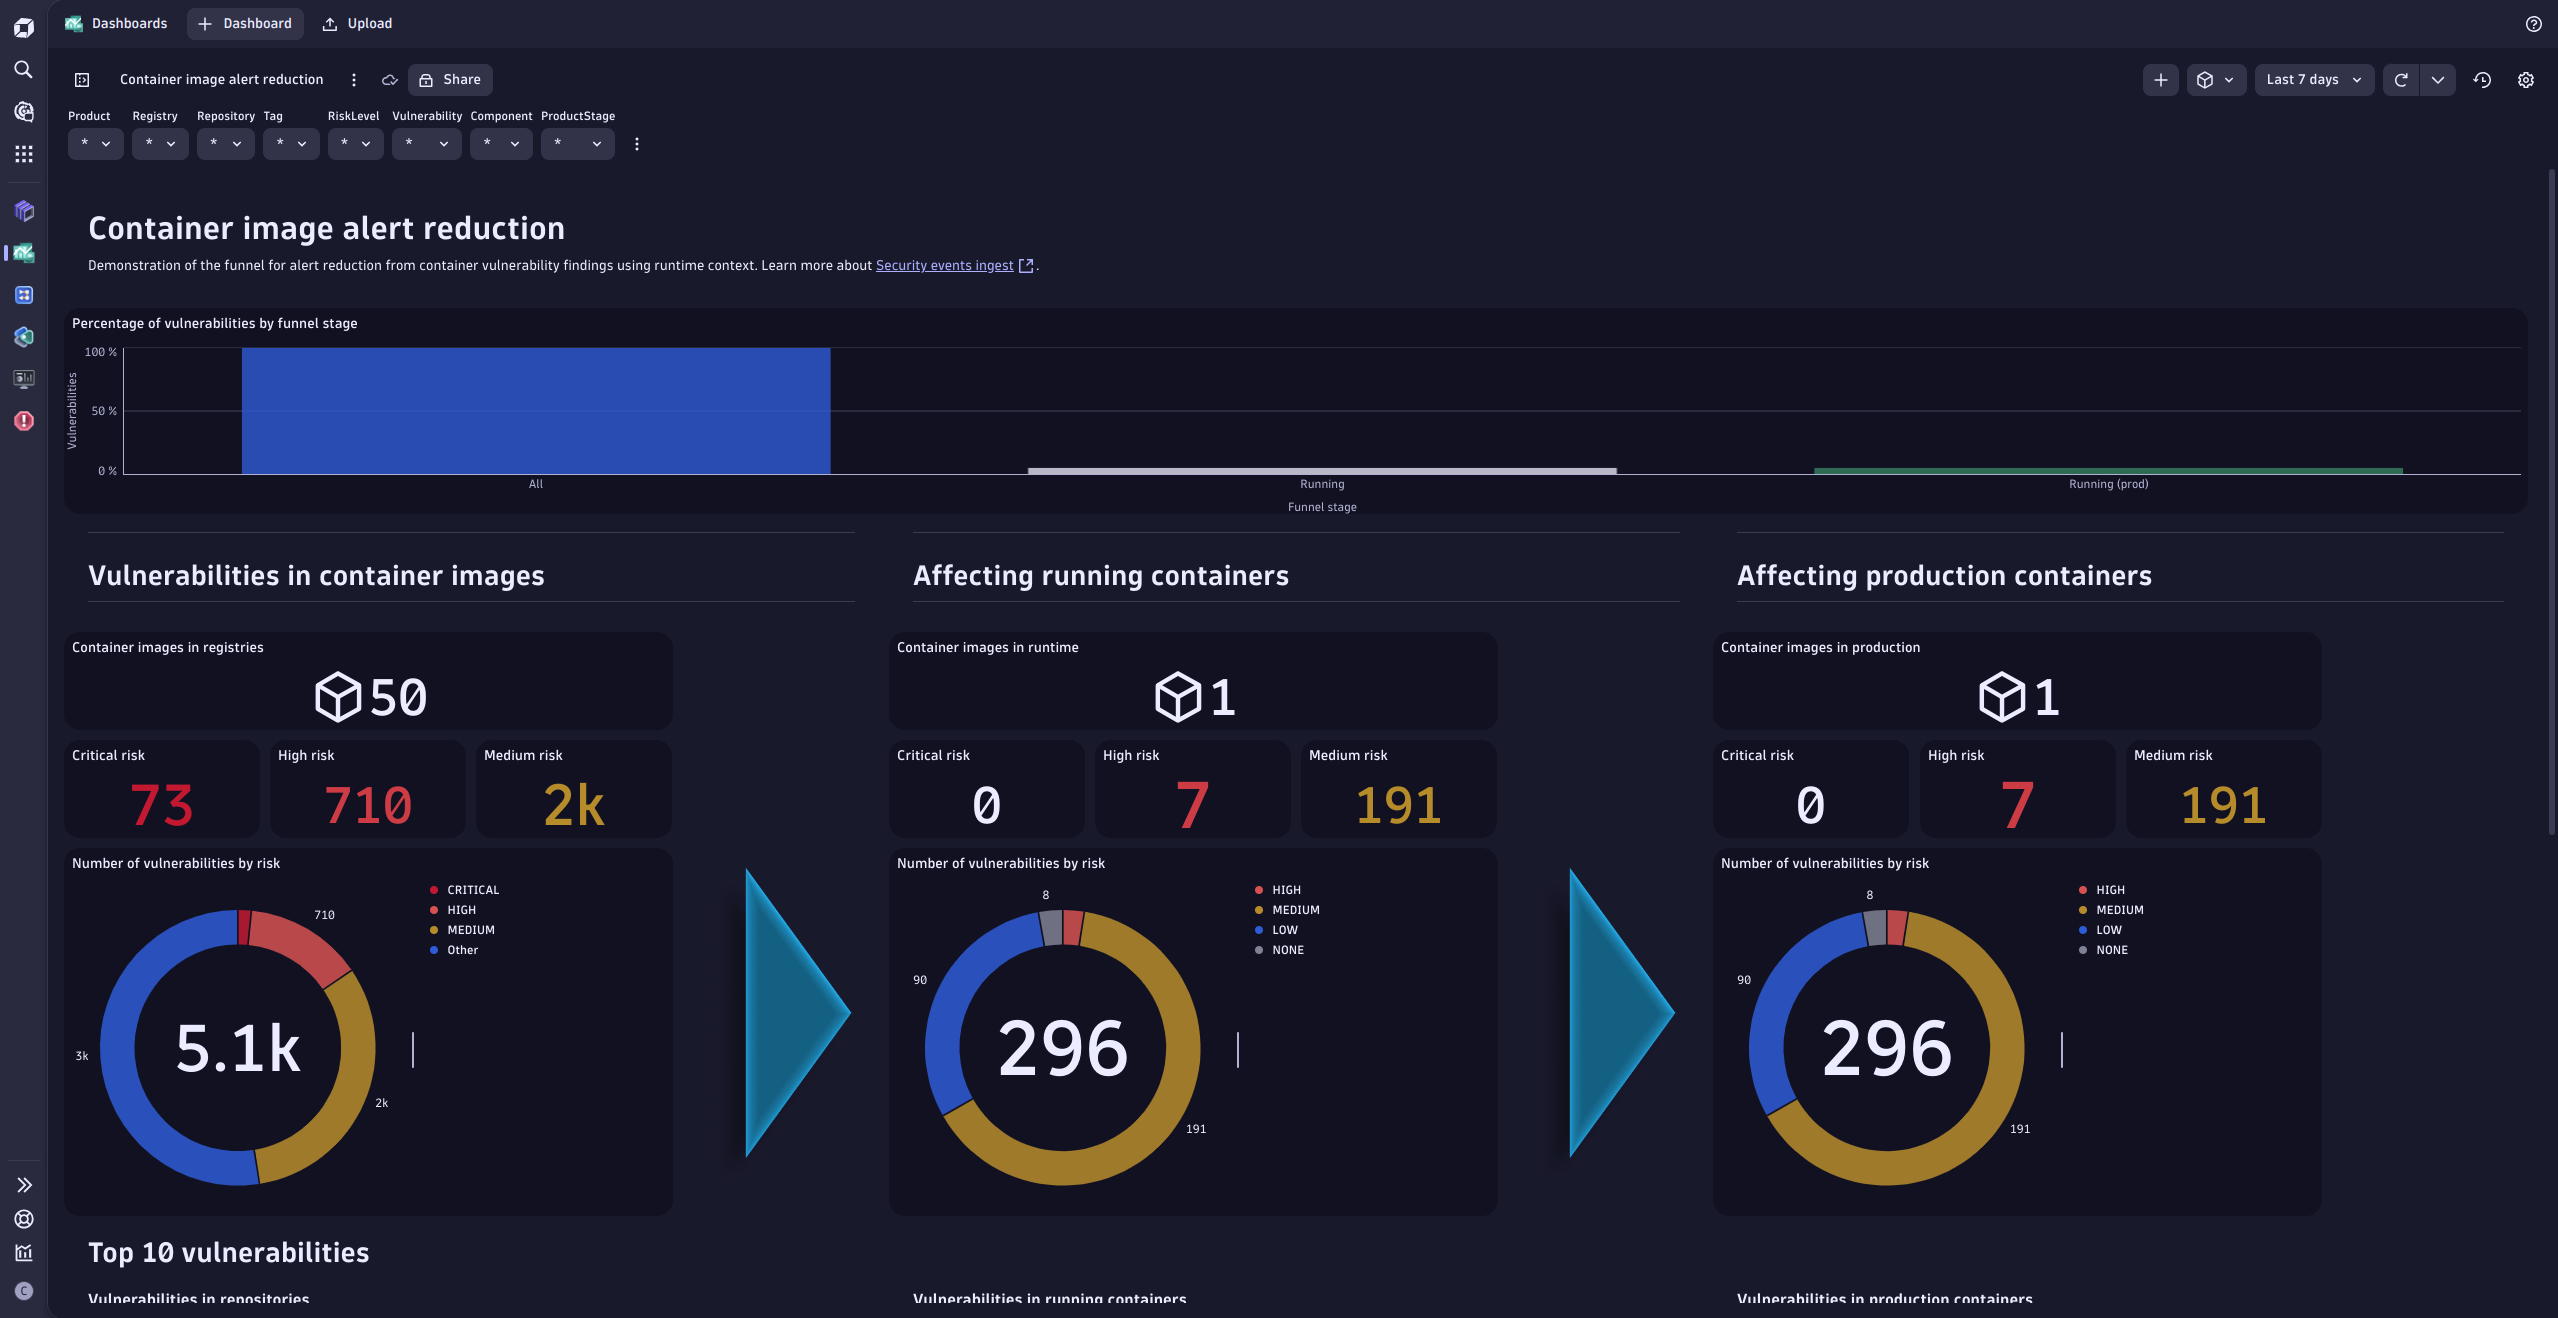
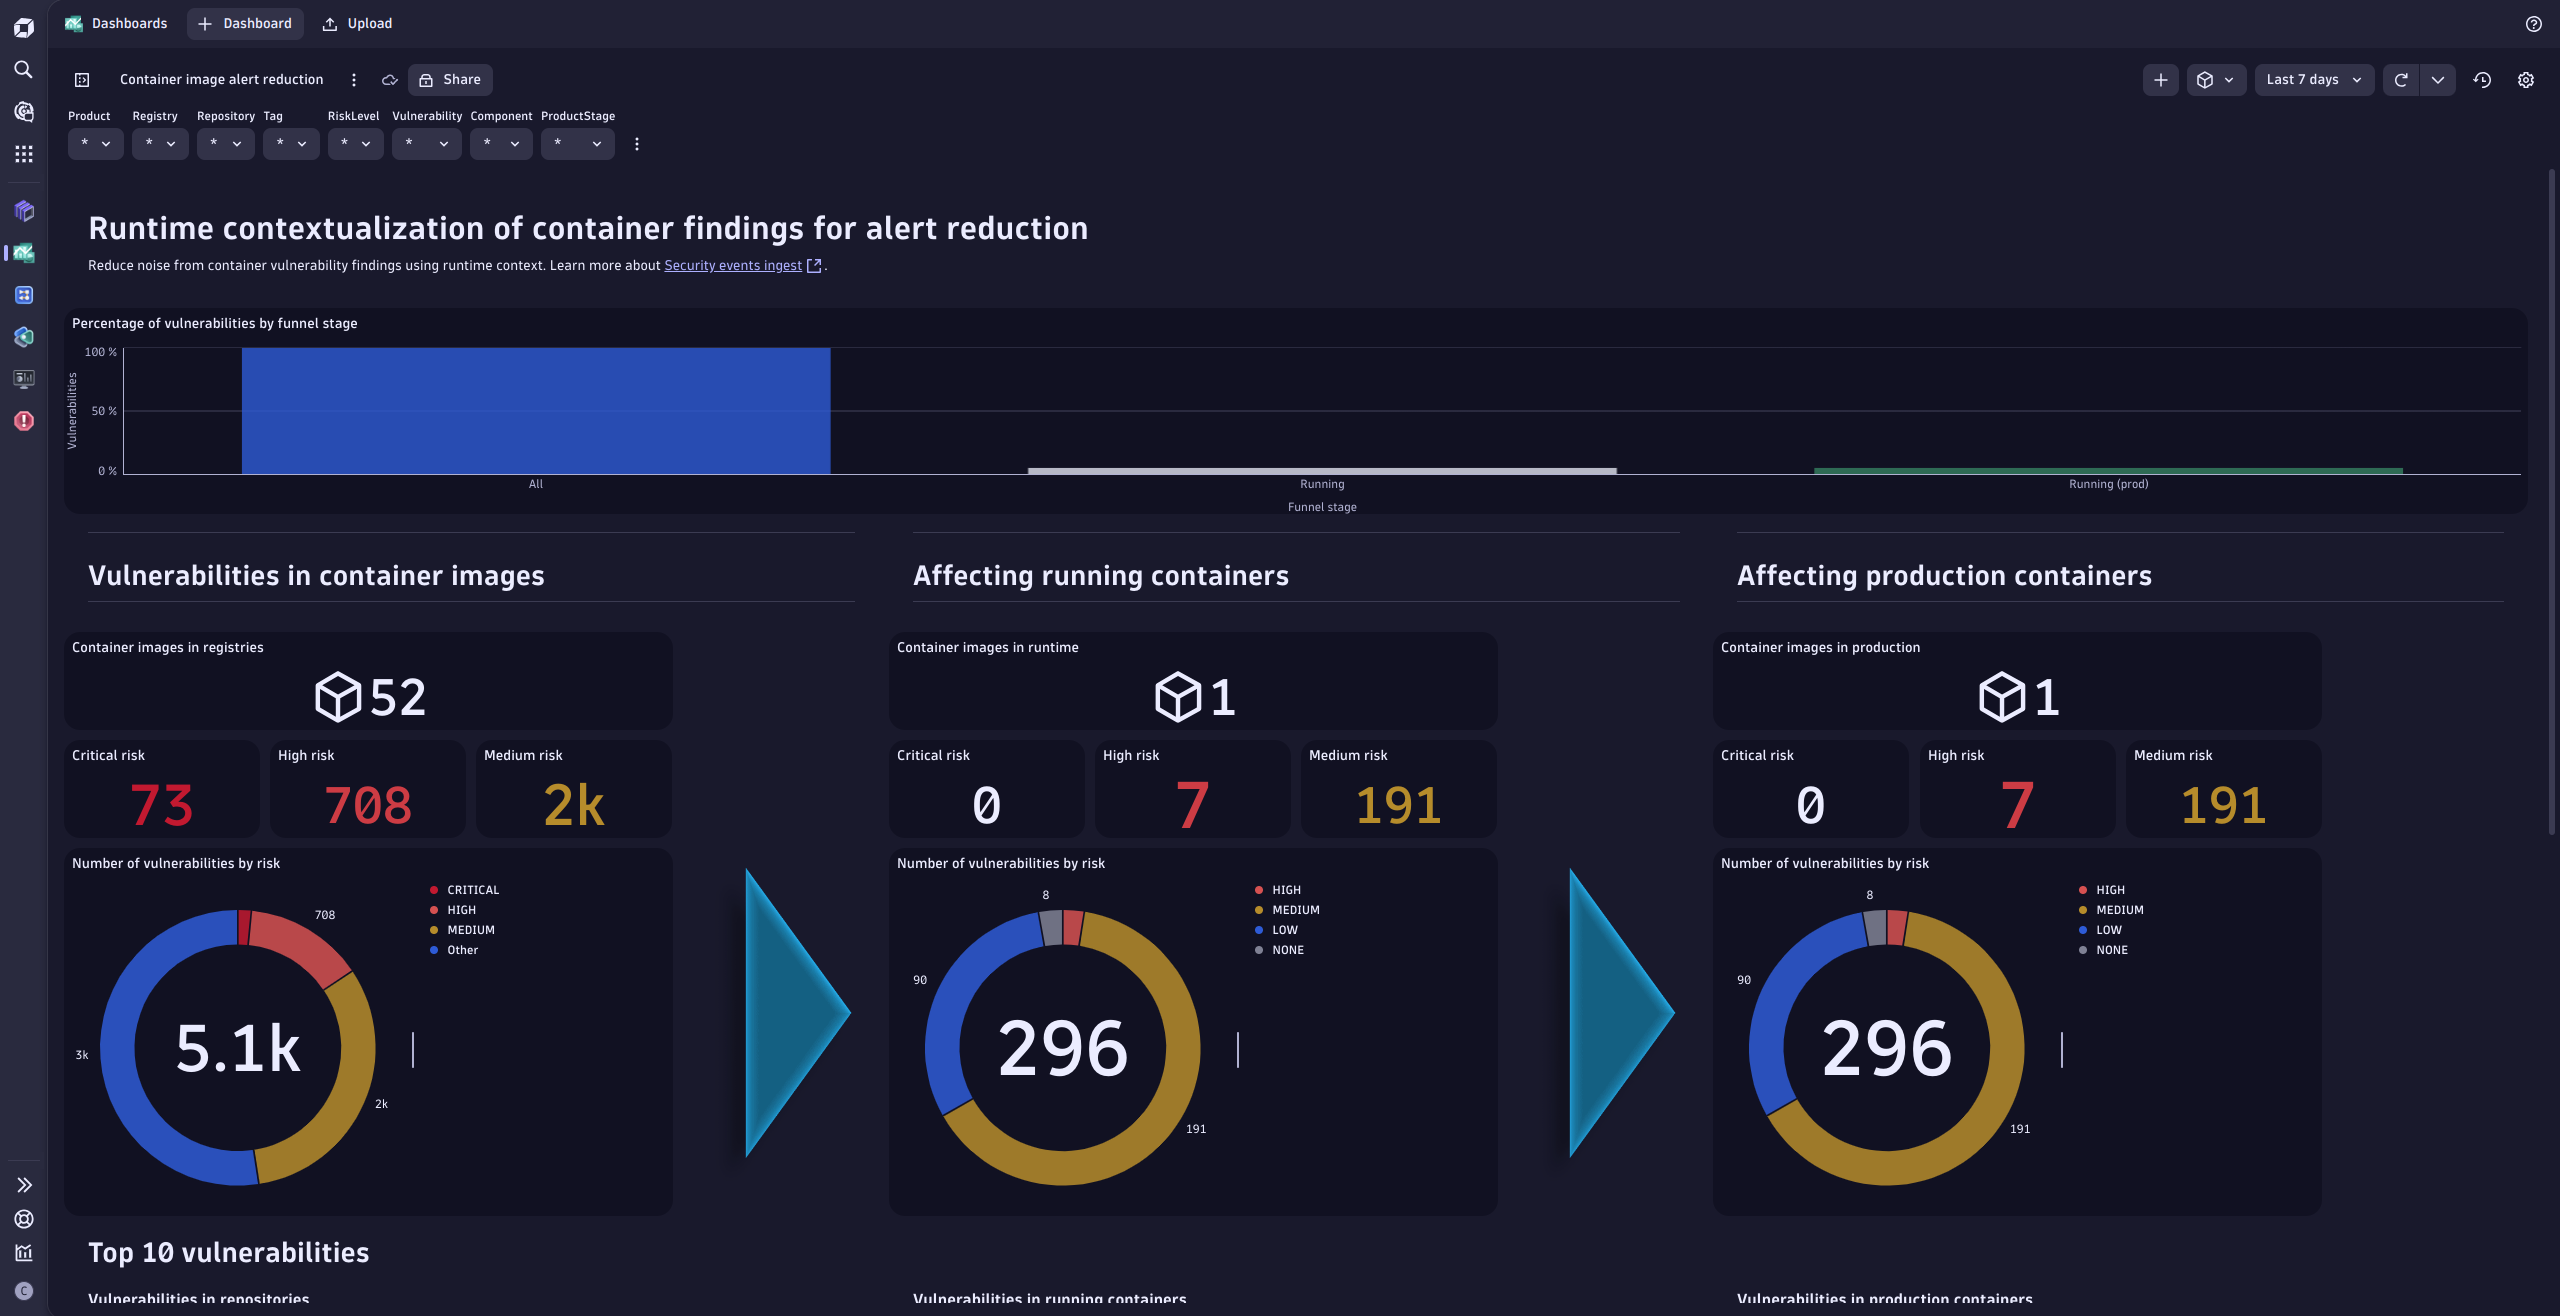
Update security dashboards to be compatible with new semantic dictionary schema and add Container image alert reduction dashboard

diff --git a/dashboards/security/README.md b/dashboards/security/README.md
@@ -28,7 +28,7 @@ For more information about how security reporting, refer to [Security data analy
 
 ![Container scan events coverage](/images/dashboard_security_container_scan_events_coverage.png)
 
-**Container image alert reduction** - This report template provides an overview of vulnerable container images and the status of these container images in running containers and for containers running in a production environment.
+**Container image alert reduction** - This report template provides an overview for runtime contextualization of container findings for alert reduction.
 [Download](/dashboards/security/Container%20image%20alert%20reduction.json) this dashboard and import it in your Dynatrace environment
 
 ![Container image alert reduction](/images/dashboard_security_container_image_alert_reduction.png)
